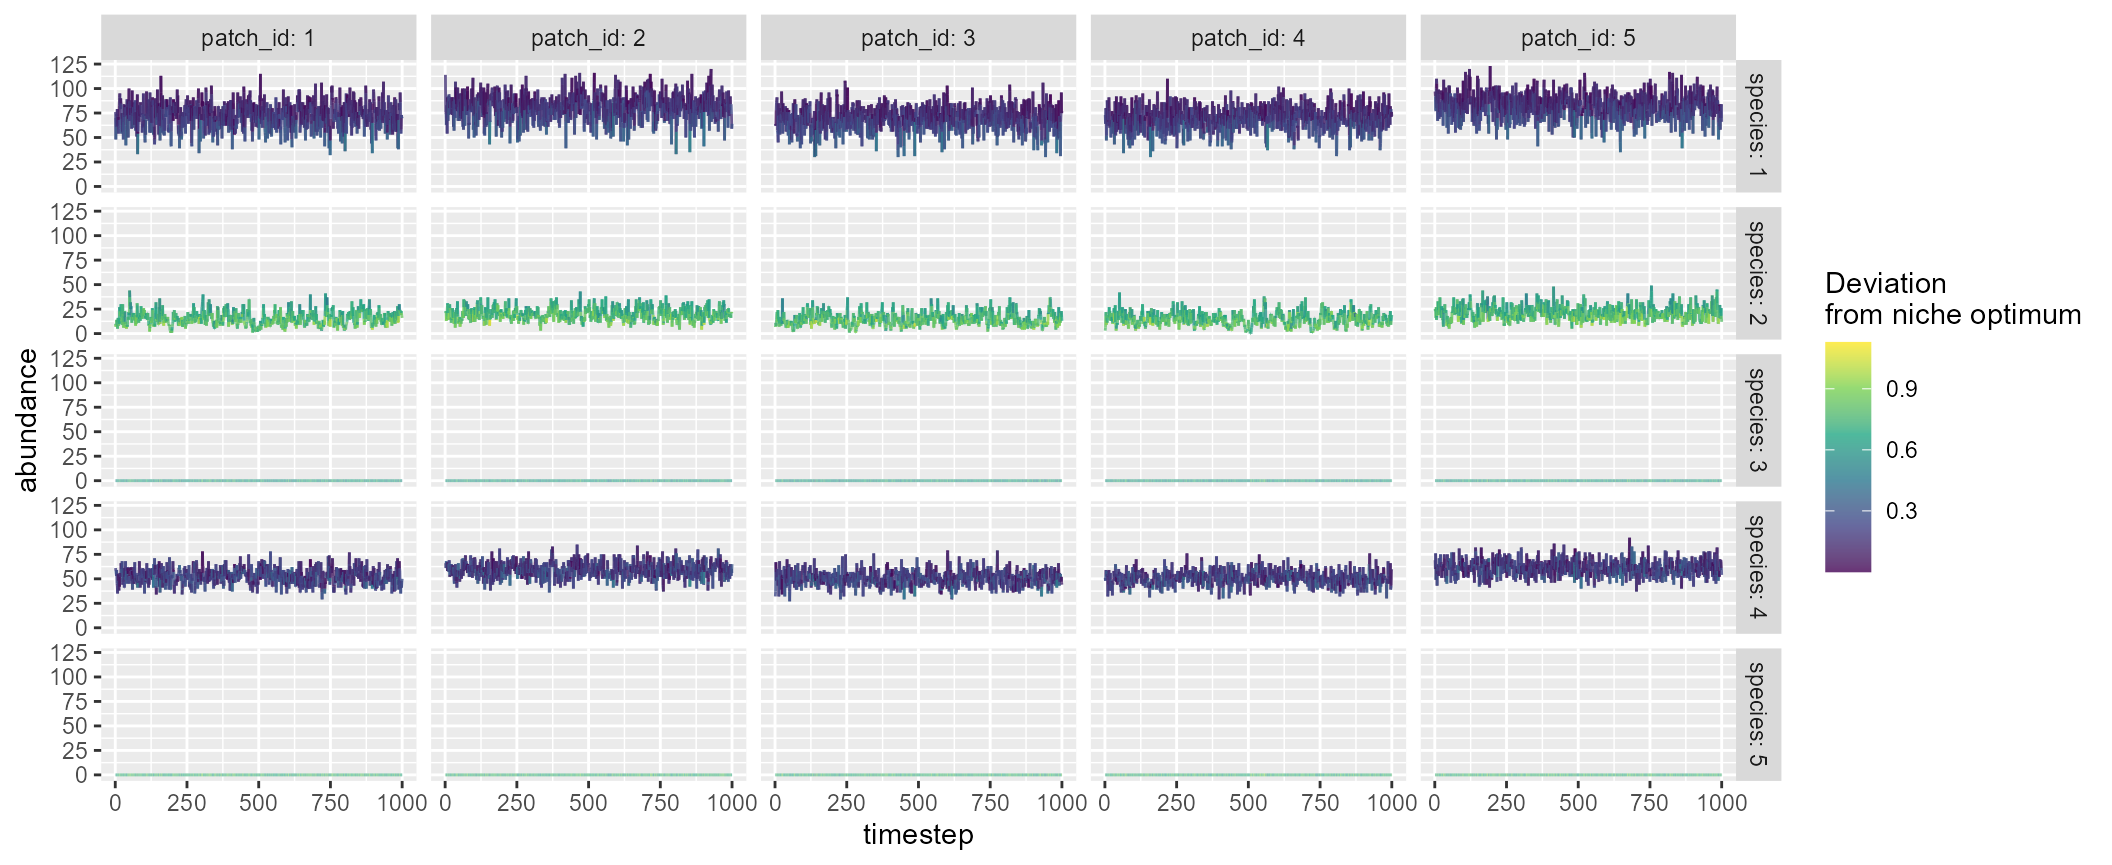
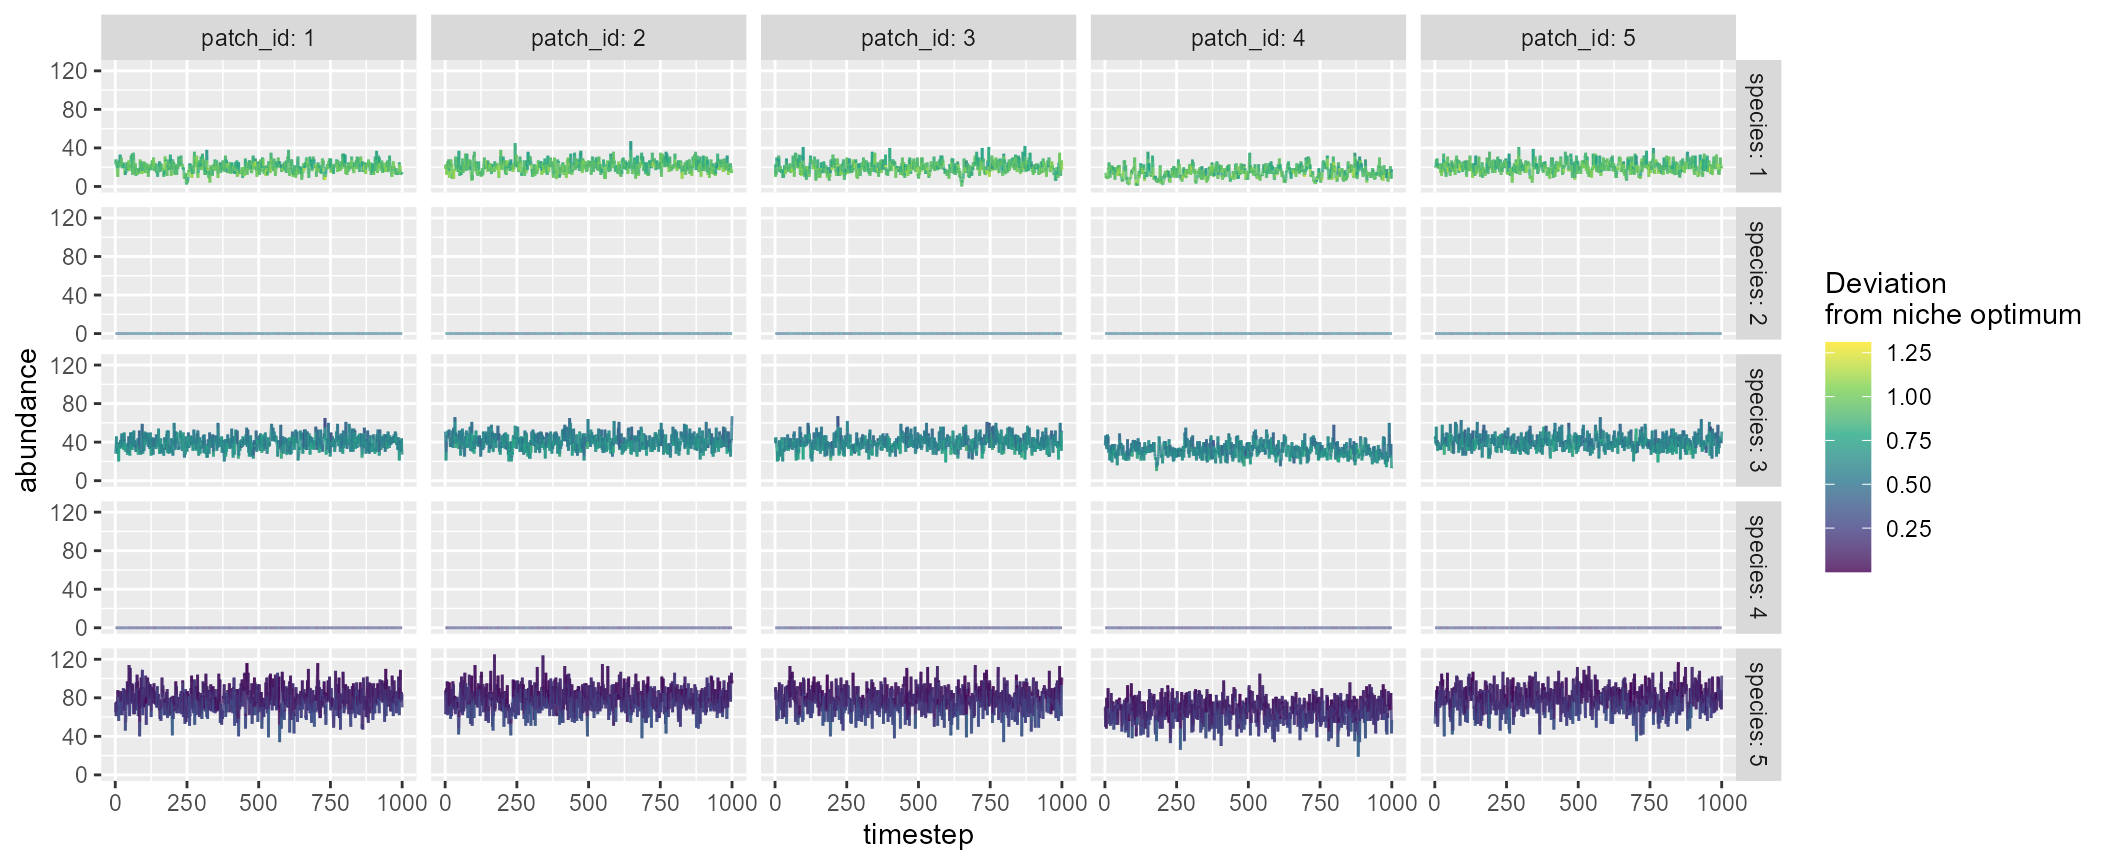
edit: pkg website

diff --git a/docs/articles/mcsim.html b/docs/articles/mcsim.html
@@ -198,18 +198,18 @@ species that are randomly chosen:</p>
 <code class="sourceCode R"><span><span class="va">mc</span></span>
 <span><span class="co">#&gt; $df_dynamics</span></span>
 <span><span class="co">#&gt; <span style="color: #949494;"># A tibble: 25,000 × 9</span></span></span>
-<span><span class="co">#&gt;    timestep patch_id mean_env      env carrying_capacity species niche_optim</span></span>
-<span><span class="co">#&gt;       <span style="color: #949494; font-style: italic;">&lt;dbl&gt;</span>    <span style="color: #949494; font-style: italic;">&lt;dbl&gt;</span>    <span style="color: #949494; font-style: italic;">&lt;dbl&gt;</span>    <span style="color: #949494; font-style: italic;">&lt;dbl&gt;</span>             <span style="color: #949494; font-style: italic;">&lt;dbl&gt;</span>   <span style="color: #949494; font-style: italic;">&lt;dbl&gt;</span>       <span style="color: #949494; font-style: italic;">&lt;dbl&gt;</span></span></span>
-<span><span class="co">#&gt; <span style="color: #BCBCBC;"> 1</span>        1        1        0  0.009<span style="text-decoration: underline;">79</span>               100       1      -<span style="color: #BB0000;">0.166</span></span></span>
-<span><span class="co">#&gt; <span style="color: #BCBCBC;"> 2</span>        1        1        0  0.009<span style="text-decoration: underline;">79</span>               100       2      -<span style="color: #BB0000;">0.754</span></span></span>
-<span><span class="co">#&gt; <span style="color: #BCBCBC;"> 3</span>        1        1        0  0.009<span style="text-decoration: underline;">79</span>               100       3       0.623</span></span>
-<span><span class="co">#&gt; <span style="color: #BCBCBC;"> 4</span>        1        1        0  0.009<span style="text-decoration: underline;">79</span>               100       4      -<span style="color: #BB0000;">0.196</span></span></span>
-<span><span class="co">#&gt; <span style="color: #BCBCBC;"> 5</span>        1        1        0  0.009<span style="text-decoration: underline;">79</span>               100       5       0.717</span></span>
-<span><span class="co">#&gt; <span style="color: #BCBCBC;"> 6</span>        1        2        0 -<span style="color: #BB0000;">0.007</span><span style="color: #BB0000; text-decoration: underline;">19</span>               100       1      -<span style="color: #BB0000;">0.166</span></span></span>
-<span><span class="co">#&gt; <span style="color: #BCBCBC;"> 7</span>        1        2        0 -<span style="color: #BB0000;">0.007</span><span style="color: #BB0000; text-decoration: underline;">19</span>               100       2      -<span style="color: #BB0000;">0.754</span></span></span>
-<span><span class="co">#&gt; <span style="color: #BCBCBC;"> 8</span>        1        2        0 -<span style="color: #BB0000;">0.007</span><span style="color: #BB0000; text-decoration: underline;">19</span>               100       3       0.623</span></span>
-<span><span class="co">#&gt; <span style="color: #BCBCBC;"> 9</span>        1        2        0 -<span style="color: #BB0000;">0.007</span><span style="color: #BB0000; text-decoration: underline;">19</span>               100       4      -<span style="color: #BB0000;">0.196</span></span></span>
-<span><span class="co">#&gt; <span style="color: #BCBCBC;">10</span>        1        2        0 -<span style="color: #BB0000;">0.007</span><span style="color: #BB0000; text-decoration: underline;">19</span>               100       5       0.717</span></span>
+<span><span class="co">#&gt;    timestep patch_id mean_env     env carrying_capacity species niche_optim</span></span>
+<span><span class="co">#&gt;       <span style="color: #949494; font-style: italic;">&lt;dbl&gt;</span>    <span style="color: #949494; font-style: italic;">&lt;dbl&gt;</span>    <span style="color: #949494; font-style: italic;">&lt;dbl&gt;</span>   <span style="color: #949494; font-style: italic;">&lt;dbl&gt;</span>             <span style="color: #949494; font-style: italic;">&lt;dbl&gt;</span>   <span style="color: #949494; font-style: italic;">&lt;dbl&gt;</span>       <span style="color: #949494; font-style: italic;">&lt;dbl&gt;</span></span></span>
+<span><span class="co">#&gt; <span style="color: #BCBCBC;"> 1</span>        1        1        0  0.054<span style="text-decoration: underline;">1</span>               100       1       0.908</span></span>
+<span><span class="co">#&gt; <span style="color: #BCBCBC;"> 2</span>        1        1        0  0.054<span style="text-decoration: underline;">1</span>               100       2       0.487</span></span>
+<span><span class="co">#&gt; <span style="color: #BCBCBC;"> 3</span>        1        1        0  0.054<span style="text-decoration: underline;">1</span>               100       3      -<span style="color: #BB0000;">0.597</span></span></span>
+<span><span class="co">#&gt; <span style="color: #BCBCBC;"> 4</span>        1        1        0  0.054<span style="text-decoration: underline;">1</span>               100       4      -<span style="color: #BB0000;">0.262</span></span></span>
+<span><span class="co">#&gt; <span style="color: #BCBCBC;"> 5</span>        1        1        0  0.054<span style="text-decoration: underline;">1</span>               100       5      -<span style="color: #BB0000;">0.155</span></span></span>
+<span><span class="co">#&gt; <span style="color: #BCBCBC;"> 6</span>        1        2        0 -<span style="color: #BB0000;">0.029</span><span style="color: #BB0000; text-decoration: underline;">8</span>               100       1       0.908</span></span>
+<span><span class="co">#&gt; <span style="color: #BCBCBC;"> 7</span>        1        2        0 -<span style="color: #BB0000;">0.029</span><span style="color: #BB0000; text-decoration: underline;">8</span>               100       2       0.487</span></span>
+<span><span class="co">#&gt; <span style="color: #BCBCBC;"> 8</span>        1        2        0 -<span style="color: #BB0000;">0.029</span><span style="color: #BB0000; text-decoration: underline;">8</span>               100       3      -<span style="color: #BB0000;">0.597</span></span></span>
+<span><span class="co">#&gt; <span style="color: #BCBCBC;"> 9</span>        1        2        0 -<span style="color: #BB0000;">0.029</span><span style="color: #BB0000; text-decoration: underline;">8</span>               100       4      -<span style="color: #BB0000;">0.262</span></span></span>
+<span><span class="co">#&gt; <span style="color: #BCBCBC;">10</span>        1        2        0 -<span style="color: #BB0000;">0.029</span><span style="color: #BB0000; text-decoration: underline;">8</span>               100       5      -<span style="color: #BB0000;">0.155</span></span></span>
 <span><span class="co">#&gt; <span style="color: #949494;"># ℹ 24,990 more rows</span></span></span>
 <span><span class="co">#&gt; <span style="color: #949494;"># ℹ 2 more variables: r_xt &lt;dbl&gt;, abundance &lt;dbl&gt;</span></span></span>
 <span><span class="co">#&gt; </span></span>
@@ -217,11 +217,11 @@ species that are randomly chosen:</p>
 <span><span class="co">#&gt; <span style="color: #949494;"># A tibble: 5 × 6</span></span></span>
 <span><span class="co">#&gt;   species mean_abundance    r0 niche_optim sd_niche_width p_dispersal</span></span>
 <span><span class="co">#&gt;     <span style="color: #949494; font-style: italic;">&lt;dbl&gt;</span>          <span style="color: #949494; font-style: italic;">&lt;dbl&gt;</span> <span style="color: #949494; font-style: italic;">&lt;dbl&gt;</span>       <span style="color: #949494; font-style: italic;">&lt;dbl&gt;</span>          <span style="color: #949494; font-style: italic;">&lt;dbl&gt;</span>       <span style="color: #949494; font-style: italic;">&lt;dbl&gt;</span></span></span>
-<span><span class="co">#&gt; <span style="color: #BCBCBC;">1</span>       1           74.6     4      -<span style="color: #BB0000;">0.166</span>          0.349         0.1</span></span>
-<span><span class="co">#&gt; <span style="color: #BCBCBC;">2</span>       2           17.0     4      -<span style="color: #BB0000;">0.754</span>          0.616         0.1</span></span>
-<span><span class="co">#&gt; <span style="color: #BCBCBC;">3</span>       3            0       4       0.623          0.281         0.1</span></span>
-<span><span class="co">#&gt; <span style="color: #BCBCBC;">4</span>       4           54.7     4      -<span style="color: #BB0000;">0.196</span>          0.867         0.1</span></span>
-<span><span class="co">#&gt; <span style="color: #BCBCBC;">5</span>       5            0       4       0.717          0.364         0.1</span></span>
+<span><span class="co">#&gt; <span style="color: #BCBCBC;">1</span>       1           19.1     4       0.908          0.970         0.1</span></span>
+<span><span class="co">#&gt; <span style="color: #BCBCBC;">2</span>       2            0       4       0.487          0.212         0.1</span></span>
+<span><span class="co">#&gt; <span style="color: #BCBCBC;">3</span>       3           38.1     4      -<span style="color: #BB0000;">0.597</span>          0.862         0.1</span></span>
+<span><span class="co">#&gt; <span style="color: #BCBCBC;">4</span>       4            0       4      -<span style="color: #BB0000;">0.262</span>          0.180         0.1</span></span>
+<span><span class="co">#&gt; <span style="color: #BCBCBC;">5</span>       5           75.8     4      -<span style="color: #BB0000;">0.155</span>          0.347         0.1</span></span>
 <span><span class="co">#&gt; </span></span>
 <span><span class="co">#&gt; $df_patch</span></span>
 <span><span class="co">#&gt; <span style="color: #949494;"># A tibble: 5 × 5</span></span></span>
@@ -229,8 +229,8 @@ species that are randomly chosen:</p>
 <span><span class="co">#&gt;      <span style="color: #949494; font-style: italic;">&lt;dbl&gt;</span>     <span style="color: #949494; font-style: italic;">&lt;dbl&gt;</span>    <span style="color: #949494; font-style: italic;">&lt;dbl&gt;</span>             <span style="color: #949494; font-style: italic;">&lt;dbl&gt;</span>       <span style="color: #949494; font-style: italic;">&lt;dbl&gt;</span></span></span>
 <span><span class="co">#&gt; <span style="color: #BCBCBC;">1</span>        1      3           0               100           0</span></span>
 <span><span class="co">#&gt; <span style="color: #BCBCBC;">2</span>        2      3           0               100           0</span></span>
-<span><span class="co">#&gt; <span style="color: #BCBCBC;">3</span>        3      3           0               100           0</span></span>
-<span><span class="co">#&gt; <span style="color: #BCBCBC;">4</span>        4      3.00        0               100           0</span></span>
+<span><span class="co">#&gt; <span style="color: #BCBCBC;">3</span>        3      3.00        0               100           0</span></span>
+<span><span class="co">#&gt; <span style="color: #BCBCBC;">4</span>        4      3           0               100           0</span></span>
 <span><span class="co">#&gt; <span style="color: #BCBCBC;">5</span>        5      3           0               100           0</span></span>
 <span><span class="co">#&gt; </span></span>
 <span><span class="co">#&gt; $df_diversity</span></span>
@@ -243,19 +243,19 @@ species that are randomly chosen:</p>
 <span><span class="co">#&gt; <span style="color: #949494;"># A tibble: 5 × 2</span></span></span>
 <span><span class="co">#&gt;   x_coord y_coord</span></span>
 <span><span class="co">#&gt;     <span style="color: #949494; font-style: italic;">&lt;dbl&gt;</span>   <span style="color: #949494; font-style: italic;">&lt;dbl&gt;</span></span></span>
-<span><span class="co">#&gt; <span style="color: #BCBCBC;">1</span>   7.11    2.56 </span></span>
-<span><span class="co">#&gt; <span style="color: #BCBCBC;">2</span>   1.17    0.442</span></span>
-<span><span class="co">#&gt; <span style="color: #BCBCBC;">3</span>   3.95    5.63 </span></span>
-<span><span class="co">#&gt; <span style="color: #BCBCBC;">4</span>   9.90    4.78 </span></span>
-<span><span class="co">#&gt; <span style="color: #BCBCBC;">5</span>   0.636   2.87 </span></span>
+<span><span class="co">#&gt; <span style="color: #BCBCBC;">1</span>   5.33    9.63 </span></span>
+<span><span class="co">#&gt; <span style="color: #BCBCBC;">2</span>   0.609   2.21 </span></span>
+<span><span class="co">#&gt; <span style="color: #BCBCBC;">3</span>   5.20    7.44 </span></span>
+<span><span class="co">#&gt; <span style="color: #BCBCBC;">4</span>   7.00    2.54 </span></span>
+<span><span class="co">#&gt; <span style="color: #BCBCBC;">5</span>   1.13    0.183</span></span>
 <span><span class="co">#&gt; </span></span>
 <span><span class="co">#&gt; $distance_matrix</span></span>
-<span><span class="co">#&gt;          1        2        3        4        5</span></span>
-<span><span class="co">#&gt; 1 0.000000 6.307674 4.399591 3.565319 6.477949</span></span>
-<span><span class="co">#&gt; 2 6.307674 0.000000 5.888682 9.752065 2.489098</span></span>
-<span><span class="co">#&gt; 3 4.399591 5.888682 0.000000 6.011777 4.311813</span></span>
-<span><span class="co">#&gt; 4 3.565319 9.752065 6.011777 0.000000 9.459697</span></span>
-<span><span class="co">#&gt; 5 6.477949 2.489098 4.311813 9.459697 0.000000</span></span>
+<span><span class="co">#&gt;           1        2        3        4         5</span></span>
+<span><span class="co">#&gt; 1  0.000000 8.795033 2.193136 7.278863 10.337628</span></span>
+<span><span class="co">#&gt; 2  8.795033 0.000000 6.958067 6.395603  2.092659</span></span>
+<span><span class="co">#&gt; 3  2.193136 6.958067 0.000000 5.216694  8.318462</span></span>
+<span><span class="co">#&gt; 4  7.278863 6.395603 5.216694 0.000000  6.321429</span></span>
+<span><span class="co">#&gt; 5 10.337628 2.092659 8.318462 6.321429  0.000000</span></span>
 <span><span class="co">#&gt; </span></span>
 <span><span class="co">#&gt; $interaction_matrix</span></span>
 <span><span class="co">#&gt;      [,1] [,2] [,3] [,4] [,5]</span></span>

diff --git a/docs/articles/igpsim.html b/docs/articles/igpsim.html
@@ -190,23 +190,23 @@ by <code>plot = TRUE</code>, which will show five sample patches:</p>
 <span><span class="co">#&gt; <span style="color: #949494;"># A tibble: 15,000 × 7</span></span></span>
 <span><span class="co">#&gt;    timestep patch_id carrying_capacity disturbance species     abundance   fcl</span></span>
 <span><span class="co">#&gt;       <span style="color: #949494; font-style: italic;">&lt;dbl&gt;</span>    <span style="color: #949494; font-style: italic;">&lt;dbl&gt;</span>             <span style="color: #949494; font-style: italic;">&lt;dbl&gt;</span>       <span style="color: #949494; font-style: italic;">&lt;dbl&gt;</span> <span style="color: #949494; font-style: italic;">&lt;fct&gt;</span>           <span style="color: #949494; font-style: italic;">&lt;dbl&gt;</span> <span style="color: #949494; font-style: italic;">&lt;dbl&gt;</span></span></span>
-<span><span class="co">#&gt; <span style="color: #BCBCBC;"> 1</span>        1        1               100           0 basal              63     2</span></span>
+<span><span class="co">#&gt; <span style="color: #BCBCBC;"> 1</span>        1        1               100           0 basal              45     2</span></span>
 <span><span class="co">#&gt; <span style="color: #BCBCBC;"> 2</span>        1        1               100           0 ig-prey             0     2</span></span>
-<span><span class="co">#&gt; <span style="color: #BCBCBC;"> 3</span>        1        1               100           0 ig-predator        36     2</span></span>
-<span><span class="co">#&gt; <span style="color: #BCBCBC;"> 4</span>        1        2               100           0 basal              63     2</span></span>
+<span><span class="co">#&gt; <span style="color: #BCBCBC;"> 3</span>        1        1               100           0 ig-predator        47     2</span></span>
+<span><span class="co">#&gt; <span style="color: #BCBCBC;"> 4</span>        1        2               100           0 basal              60     2</span></span>
 <span><span class="co">#&gt; <span style="color: #BCBCBC;"> 5</span>        1        2               100           0 ig-prey             0     2</span></span>
-<span><span class="co">#&gt; <span style="color: #BCBCBC;"> 6</span>        1        2               100           0 ig-predator        20     2</span></span>
-<span><span class="co">#&gt; <span style="color: #BCBCBC;"> 7</span>        1        3               100           0 basal              59     2</span></span>
+<span><span class="co">#&gt; <span style="color: #BCBCBC;"> 6</span>        1        2               100           0 ig-predator        42     2</span></span>
+<span><span class="co">#&gt; <span style="color: #BCBCBC;"> 7</span>        1        3               100           0 basal              84     2</span></span>
 <span><span class="co">#&gt; <span style="color: #BCBCBC;"> 8</span>        1        3               100           0 ig-prey             0     2</span></span>
-<span><span class="co">#&gt; <span style="color: #BCBCBC;"> 9</span>        1        3               100           0 ig-predator        36     2</span></span>
-<span><span class="co">#&gt; <span style="color: #BCBCBC;">10</span>        1        4               100           0 basal              53     2</span></span>
+<span><span class="co">#&gt; <span style="color: #BCBCBC;"> 9</span>        1        3               100           0 ig-predator        11     2</span></span>
+<span><span class="co">#&gt; <span style="color: #BCBCBC;">10</span>        1        4               100           0 basal              43     2</span></span>
 <span><span class="co">#&gt; <span style="color: #949494;"># ℹ 14,990 more rows</span></span></span>
 <span><span class="co">#&gt; </span></span>
 <span><span class="co">#&gt; $df_species</span></span>
 <span><span class="co">#&gt; <span style="color: #949494;"># A tibble: 3 × 3</span></span></span>
 <span><span class="co">#&gt;   species     mean_abundance p_dispersal</span></span>
 <span><span class="co">#&gt;   <span style="color: #949494; font-style: italic;">&lt;fct&gt;</span>                <span style="color: #949494; font-style: italic;">&lt;dbl&gt;</span>       <span style="color: #949494; font-style: italic;">&lt;dbl&gt;</span></span></span>
-<span><span class="co">#&gt; <span style="color: #BCBCBC;">1</span> basal                 62.1         0.1</span></span>
+<span><span class="co">#&gt; <span style="color: #BCBCBC;">1</span> basal                 62.5         0.1</span></span>
 <span><span class="co">#&gt; <span style="color: #BCBCBC;">2</span> ig-prey                0           0.1</span></span>
 <span><span class="co">#&gt; <span style="color: #BCBCBC;">3</span> ig-predator           28.2         0.1</span></span>
 <span><span class="co">#&gt; </span></span>
@@ -215,8 +215,8 @@ by <code>plot = TRUE</code>, which will show five sample patches:</p>
 <span><span class="co">#&gt;   patch_id   fcl carrying_capacity disturbance</span></span>
 <span><span class="co">#&gt;      <span style="color: #949494; font-style: italic;">&lt;dbl&gt;</span> <span style="color: #949494; font-style: italic;">&lt;dbl&gt;</span>             <span style="color: #949494; font-style: italic;">&lt;dbl&gt;</span>       <span style="color: #949494; font-style: italic;">&lt;dbl&gt;</span></span></span>
 <span><span class="co">#&gt; <span style="color: #BCBCBC;">1</span>        1  2                  100           0</span></span>
-<span><span class="co">#&gt; <span style="color: #BCBCBC;">2</span>        2  2.00               100           0</span></span>
-<span><span class="co">#&gt; <span style="color: #BCBCBC;">3</span>        3  2                  100           0</span></span>
+<span><span class="co">#&gt; <span style="color: #BCBCBC;">2</span>        2  2                  100           0</span></span>
+<span><span class="co">#&gt; <span style="color: #BCBCBC;">3</span>        3  2.00               100           0</span></span>
 <span><span class="co">#&gt; <span style="color: #BCBCBC;">4</span>        4  2                  100           0</span></span>
 <span><span class="co">#&gt; <span style="color: #BCBCBC;">5</span>        5  2                  100           0</span></span>
 <span><span class="co">#&gt; </span></span>
@@ -232,19 +232,19 @@ by <code>plot = TRUE</code>, which will show five sample patches:</p>
 <span><span class="co">#&gt; <span style="color: #949494;"># A tibble: 5 × 2</span></span></span>
 <span><span class="co">#&gt;   x_coord y_coord</span></span>
 <span><span class="co">#&gt;     <span style="color: #949494; font-style: italic;">&lt;dbl&gt;</span>   <span style="color: #949494; font-style: italic;">&lt;dbl&gt;</span></span></span>
-<span><span class="co">#&gt; <span style="color: #BCBCBC;">1</span>    3.78  0.080<span style="text-decoration: underline;">3</span></span></span>
-<span><span class="co">#&gt; <span style="color: #BCBCBC;">2</span>    2.60  7.08  </span></span>
-<span><span class="co">#&gt; <span style="color: #BCBCBC;">3</span>    3.08  4.52  </span></span>
-<span><span class="co">#&gt; <span style="color: #BCBCBC;">4</span>    3.10  0.070<span style="text-decoration: underline;">9</span></span></span>
-<span><span class="co">#&gt; <span style="color: #BCBCBC;">5</span>    3.13  2.80  </span></span>
+<span><span class="co">#&gt; <span style="color: #BCBCBC;">1</span>    1.83    4.50</span></span>
+<span><span class="co">#&gt; <span style="color: #BCBCBC;">2</span>    2.31    5.67</span></span>
+<span><span class="co">#&gt; <span style="color: #BCBCBC;">3</span>    7.79    6.13</span></span>
+<span><span class="co">#&gt; <span style="color: #BCBCBC;">4</span>    5.13    5.39</span></span>
+<span><span class="co">#&gt; <span style="color: #BCBCBC;">5</span>    1.51    7.48</span></span>
 <span><span class="co">#&gt; </span></span>
 <span><span class="co">#&gt; $distance_matrix</span></span>
-<span><span class="co">#&gt;           1        2        3         4        5</span></span>
-<span><span class="co">#&gt; 1 0.0000000 7.102007 4.497766 0.6764073 2.792401</span></span>
-<span><span class="co">#&gt; 2 7.1020074 0.000000 2.604857 7.0315773 4.320499</span></span>
-<span><span class="co">#&gt; 3 4.4977665 2.604857 0.000000 4.4528201 1.728118</span></span>
-<span><span class="co">#&gt; 4 0.6764073 7.031577 4.452820 0.0000000 2.725467</span></span>
-<span><span class="co">#&gt; 5 2.7924011 4.320499 1.728118 2.7254666 0.000000</span></span></code></pre></div>
+<span><span class="co">#&gt;          1        2        3        4        5</span></span>
+<span><span class="co">#&gt; 1 0.000000 1.261631 6.174464 3.409481 2.997727</span></span>
+<span><span class="co">#&gt; 2 1.261631 0.000000 5.495000 2.826700 1.983928</span></span>
+<span><span class="co">#&gt; 3 6.174464 5.495000 0.000000 2.765064 6.423825</span></span>
+<span><span class="co">#&gt; 4 3.409481 2.826700 2.765064 0.000000 4.180408</span></span>
+<span><span class="co">#&gt; 5 2.997727 1.983928 6.423825 4.180408 0.000000</span></span></code></pre></div>
 </div>
 <div class="section level2">
 <h2 id="custom-brnet-igpsim">Custom: <code>brnet()</code> + <code>igpsim()</code><a class="anchor" aria-label="anchor" href="#custom-brnet-igpsim"></a>
